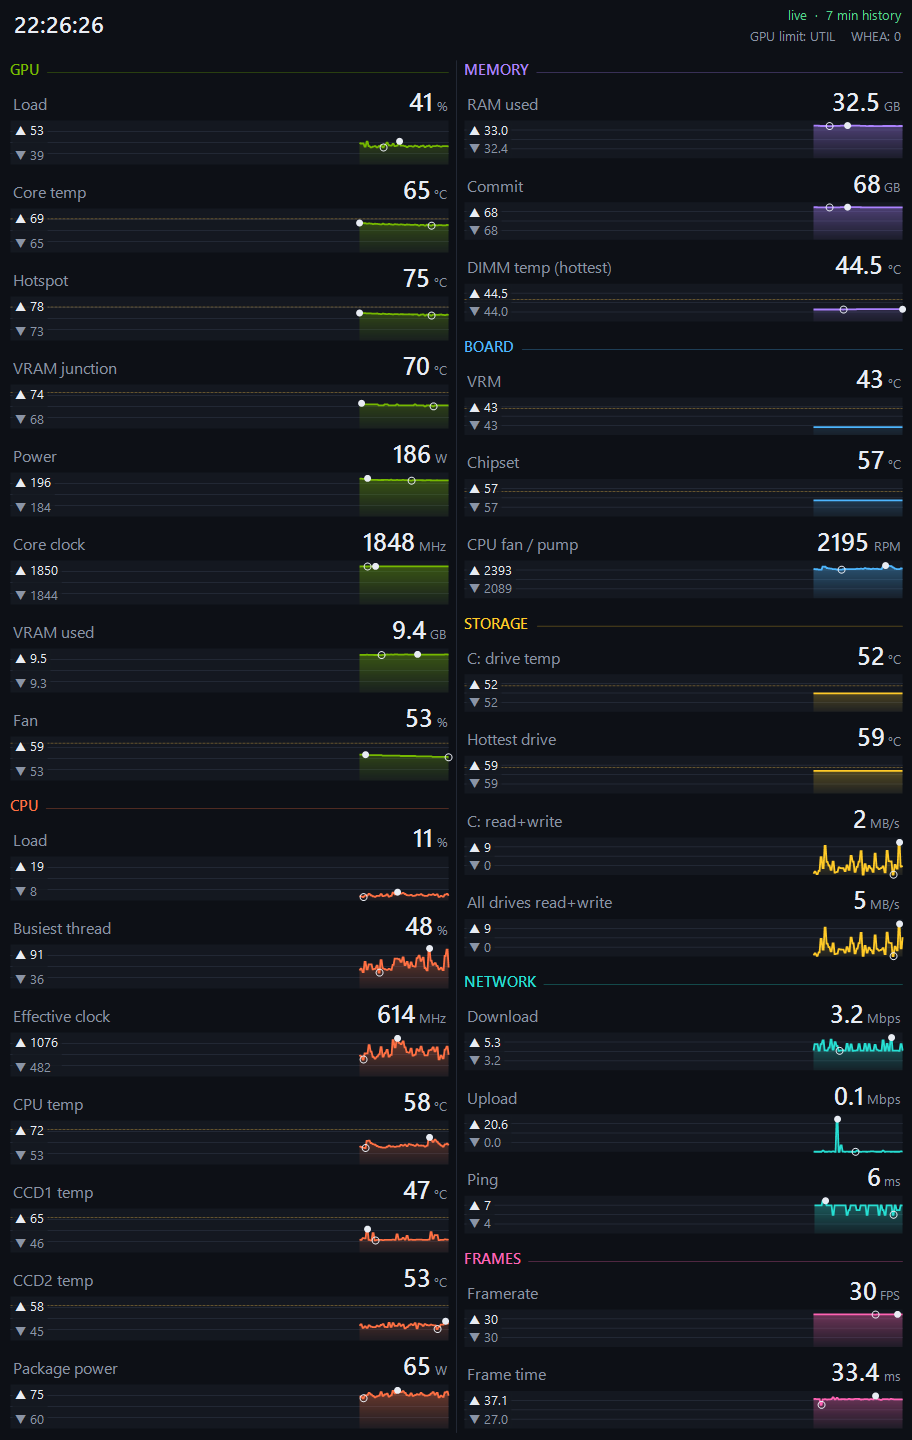
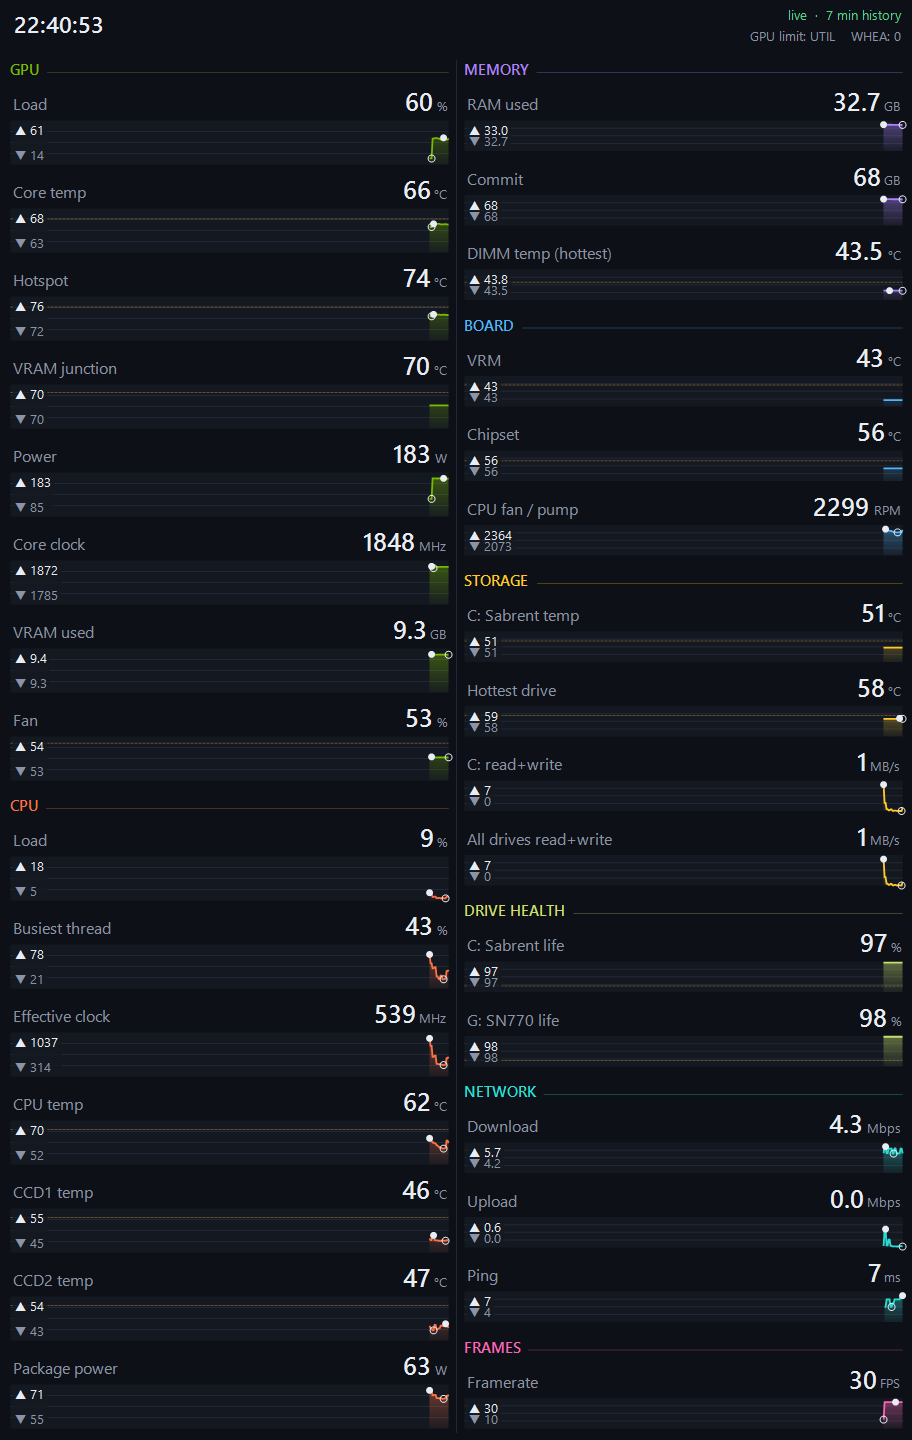
Add drive health section, remove frame time row
Adds SSD life remaining rows (C: and lowest of all drives) with lowIsBad
thresholds (warn 20%, crit 10%). Drops the frame time row from defaults.

diff --git a/PCMonitorPanel.cs b/PCMonitorPanel.cs
@@ -39,6 +39,7 @@ namespace PCMonitorPanel
         public double max { get; set; }          // 0 = autoscale
         public double? warn { get; set; }
         public double? crit { get; set; }
+        public bool lowIsBad { get; set; }       // warn/crit trigger at or below the thresholds (e.g. drive life)
         public double scale { get; set; }        // value multiplier, 0 treated as 1
         public string agg { get; set; }          // first | max | min | sum | avg
         public string special { get; set; }      // "ping" for the built-in pinger
@@ -341,6 +342,12 @@ namespace PCMonitorPanel
         Color Level(MetricDef d, double v)
         {
             if (double.IsNaN(v)) return TextDim;
+            if (d.lowIsBad)
+            {
+                if (d.crit.HasValue && v <= d.crit.Value) return CritC;
+                if (d.warn.HasValue && v <= d.warn.Value) return WarnC;
+                return TextHi;
+            }
             if (d.crit.HasValue && v >= d.crit.Value) return CritC;
             if (d.warn.HasValue && v >= d.warn.Value) return WarnC;
             return TextHi;

diff --git a/README.md b/README.md
@@ -1,6 +1,6 @@
 # PC Monitor Panel
 
-A borderless, always-on-top desktop sensor panel for Windows, built for a **3440x1440 ultrawide**. It fills a strip on the right edge of that monitor with live numbers and history graphs for every sensor worth watching: GPU, CPU, memory, board, storage, network, and in-game framerate.
+A borderless, always-on-top desktop sensor panel for Windows, built for a **3440x1440 ultrawide**. It fills a strip on the right edge of that monitor with live numbers and history graphs for every sensor worth watching: GPU, CPU, memory, board, storage, SSD life remaining, network, and in-game framerate.
 
 All data comes from [HWiNFO](https://www.hwinfo.com/) through its shared memory interface. Framerate and frametime come from [RivaTuner Statistics Server](https://www.guru3d.com/download/rtss-rivatuner-statistics-server-download/) through HWiNFO's built-in RTSS integration, so nothing draws inside your games.
 
@@ -15,6 +15,7 @@ All data comes from [HWiNFO](https://www.hwinfo.com/) through its shared memory 
 * History of 7 minutes (one pixel per second) or 1 hour (right-click to switch)
 * Header with clock, NVIDIA GPU performance limiter (PWR, THERM, VREL, VOP, UTIL), and new WHEA hardware errors since launch
 * Built-in ping graph
+* Drive health section with SSD life remaining (goes yellow at 20%, red at 10%). The default shows C: and the lowest of all drives; point a row at a specific drive letter in `panel.json`, for example `"sensor": "^S\\.M\\.A\\.R\\.T\\..*\\[[^\\]]*G:"`
 * Detects a stalled HWiNFO feed and says so instead of showing frozen numbers
 * Rows with no matching sensor on your hardware hide themselves
 * Everything is defined in `panel.json`: sensors, labels, thresholds, colors, columns, monitor, width
@@ -91,6 +92,7 @@ Each row in `metrics` maps to one or more HWiNFO readings using regular expressi
 | `label`, `unit`, `format` | What the row shows; `format` is a .NET number format like `0`, `0.0` |
 | `min`, `max` | Graph scale; `max: 0` means autoscale |
 | `warn`, `crit` | Value turns yellow or red at or above these (optional) |
+| `lowIsBad` | `true` flips `warn` and `crit` to trigger at or below the value, for things like drive life |
 | `scale` | Multiplier, for example `0.0009765625` turns MB into GB, `0.008` turns KB/s into Mbps |
 | `agg` | How to combine multiple matching readings: `first` (default), `max`, `min`, `sum`, `avg` |
 | `sources` | List of `{ sensor, label, unit }` regex filters. The first source that matches anything wins, so you can list fallbacks for different hardware |
